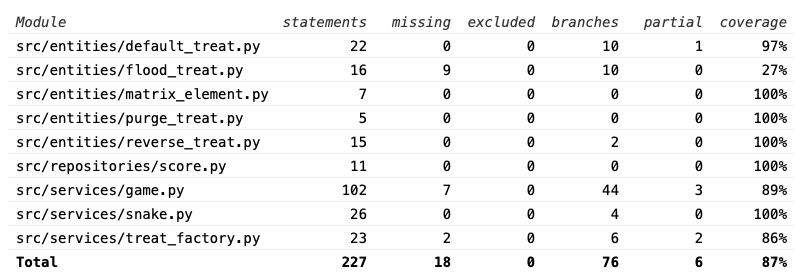
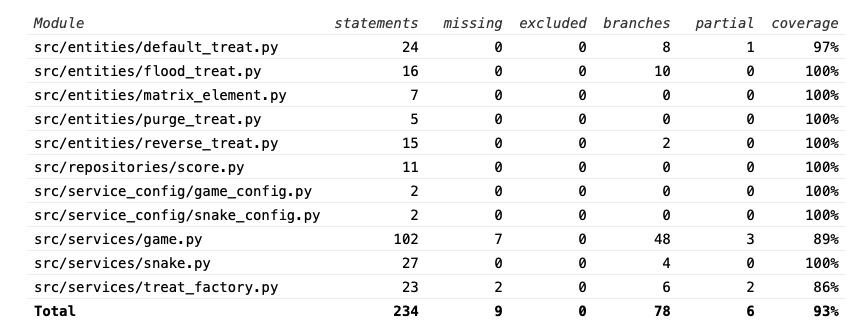
refactored defaulttreat class and added new coverage-report image

diff --git a/src/entities/default_treat.py b/src/entities/default_treat.py
@@ -1,27 +1,33 @@
 class DefaultTreat:
     """instances of this class are consumable treats in the game,
-    that give one point each and either extend or contract snake
-    length by effect."""
+    that alter snake's length by effect. Effect can be negative or positive."""
     def __init__(self, effect):
         self.effect=effect
         self.type="treat"
         self.points=1
         self.tier=1
+    def new_pending_blocks(self,position, blocks):
+        """Calculate how much snakes pending blocks be"""
+        leftover=len(position)+self.effect-1
+        new_blocks=blocks+leftover
+        new_blocks = max(new_blocks,0)
+        return new_blocks
     def consume(self, snake):
         """This method changes the snake's length depending on
-        effect."""
+        effect. If effect is greater than or equal to 0, this amount will
+        be added to snake's pending blocks. Snake will then extend itself.
+        If effect is negative, snake's length will first be reduced by removing
+        elements from snake's position. Then pending blocks will be removed
+        if the effect is larger than snake's length"""
         new_position=[i[:] for i in snake.position[:]]
         blocks = snake.pending_blocks
         if self.effect>=0:
             snake.set_pending_blocks(snake.pending_blocks+self.effect)
-        if self.effect<0:
-            if len(new_position)+self.effect>0:
-                del new_position[:abs(self.effect)]
-                snake.set_position(new_position)
-            elif  len(snake.position)+self.effect<=0:
-                leftover=min(len(new_position)+self.effect, 0)
-                new_position=[new_position[len(new_position)-1][:]]
-                blocks=blocks+leftover
-                blocks = max(blocks,0)
-                snake.set_pending_blocks(blocks)
-                snake.set_position(new_position)
+            return
+        if len(new_position)+self.effect>0:
+            del new_position[:abs(self.effect)]
+            snake.set_position(new_position)
+        elif len(snake.position)+self.effect<=0:
+            snake.set_pending_blocks(self.new_pending_blocks(new_position,blocks))
+            new_position=[new_position[-1][:]]
+            snake.set_position(new_position)

diff --git a/src/services/game.py b/src/services/game.py
@@ -1,20 +1,12 @@
 from random import choice
 from entities.matrix_element import MatrixElement
 from services.treat_factory import TreatFactory
+from service_config.game_config import GAME_OVER,forbidden_directions
 treat_factory=TreatFactory()
 snake_body=MatrixElement(None,"snake",0,0,0)
 empty=MatrixElement(None,"empty",0,0,0)
 
 START=[[empty]*14 for i in range(0, 9)]
-
-GAME_OVER=[[0, 0, 0, 0, 0, 0, 0, 1, 1, 1, 0, 0, 0, 0],
-        [0, 0, 0, 1, 0, 1, 0, 1, 0, 1, 0, 1, 0, 1],
-        [0, 0, 0, 0, 1, 0, 0, 1, 1, 1, 0, 1, 0, 1],
-        [0, 0, 0, 0, 1, 0, 0, 2, 2, 2, 0, 1, 1, 1],
-        [0, 0, 0, 0, 0, 0, 0, 2, 0, 0, 0, 0, 0, 0],
-        [0, 2, 2, 0, 0, 2, 0, 2, 2, 2, 0, 2, 2, 0],
-        [0, 2, 0, 2, 0, 2, 0, 2, 0, 0, 0, 2, 0, 2],
-        [0, 2, 2, 0, 0, 2, 0, 2, 2, 2, 0, 2, 2, 0]]
 
 class Game:
     """Game is class responsible for integrating entities, and producing the image
@@ -47,7 +39,7 @@ class Game:
                 self.coordinates.append([i, j])
 
     def start(self, name,difficulty):
-        """this method resets game attributes."""
+        """this method resets game attributes. and returns initial image for gui"""
         self.points=0
         self.difficulty=difficulty
         self.game_matrix=[x[:] for x in START]
@@ -57,7 +49,6 @@ class Game:
             self.game_matrix[snake_block[0]][snake_block[1]]=snake_body
         self.direction=1
         self.game_over=False
-        #Return game_matrix for initial image before game starts.
         return self.game_matrix
 
     def set_game_matrix(self, matrix):
@@ -65,7 +56,9 @@ class Game:
         self.game_matrix=matrix
 
     def change_direction(self, direction):
-        self.direction=direction
+        """Sets self.direction if snake does not turn on itself."""
+        if forbidden_directions[self.direction]!=direction:
+            self.direction=direction
 
     def out_out_bounds(self, head):
         """This method tests whether the snake has hit wall"""

diff --git a/src/tests/flood_treat_test.py b/src/tests/flood_treat_test.py
@@ -1,7 +1,49 @@
 from entities.flood_treat import FloodTreat
 import unittest
+from unittest.mock import MagicMock
+
 class TestFloodTreat(unittest.TestCase):
-    def testUp(self):
-        pass
-    def test_consume(self):
-        pass
+    def setUp(self):
+        self.returned=None
+        def return_args(arg):
+            self.returned=arg
+        self.game=MagicMock()
+        empty=MagicMock()
+        empty.type="empty"
+        game_matrix=[[empty]*14 for i in range(0, 9)]
+        self.game.game_matrix=game_matrix
+        self.game.set_game_matrix=return_args
+        
+    def test_every_second_is_treat(self):
+        treat = FloodTreat()
+        treat.consume(self.game)
+        even_rows=self.returned[::2]
+        odd_rows=self.returned[1::2]
+        for row in odd_rows:
+            for element in row[::2]:
+                self.assertEqual(element.type, "treat")
+                self.assertEqual(element.action.effect, -2)
+        for row in even_rows:
+            for element in row[1::2]:
+                self.assertEqual(element.type, "treat")
+                self.assertEqual(element.action.effect, -2)
+
+    def test_every_second_is_not_changed(self):
+        treat = FloodTreat()
+        treat.consume(self.game)
+        even_rows=self.returned[::2]
+        odd_rows=self.returned[1::2]
+        for row in odd_rows:
+            for element in row[1::2]:
+                self.assertEqual(element.type, "empty")
+        for row in even_rows:
+            for element in row[::2]:
+                self.assertEqual(element.type, "empty")
+
+    def test_snake_not_replaced(self):
+        snake=MagicMock()
+        snake.type="snake"
+        self.game.game_matrix[0][1]=snake
+        treat = FloodTreat()
+        treat.consume(self.game)
+        self.assertEqual(self.returned[0][1].type,"snake")

diff --git a/src/ui/gui.py b/src/ui/gui.py
@@ -43,21 +43,23 @@ class View:
                 if event.type == pygame.QUIT:
                     self.game_run=False
                 if event.type == pygame.KEYDOWN:
-                    started=True
                     if event.key == pygame.K_LEFT:
                         self.game.change_direction(3)
                     if event.key == pygame.K_RIGHT:
                         self.game.change_direction(1)
+                        started=True
                     if event.key == pygame.K_UP:
                         self.game.change_direction(0)
+                        started=True
                     if event.key == pygame.K_DOWN:
                         self.game.change_direction(2)
+                        started=True
 
             self.screen.fill((0, 0, 0))
             pygame.draw.rect(self.screen, (0, 255, 255), pygame.Rect(0, 0, 750, 50))
             image=starting_image
             if started:
-                image = self.game.advance()   
+                image = self.game.advance() 
             if image==GAME_OVER:
                 self.game_run=False
                 self.start_ending_screen(self.game.points)
@@ -77,7 +79,9 @@ class View:
                     effect = main_font.render(text, False, (255, 255, 255))
                     pygame.draw.rect(self.screen, (color), pygame.Rect(j*50,50+50*i, 50, 50))
                     self.screen.blit(effect, (j*50+15,50+50*i+5))
-                    
+            if not started:
+                start_prompt = main_font.render("Press right arrowkey to start", False, (255, 255, 255)) 
+                self.screen.blit(start_prompt, (200,50))
             points = main_font.render("points: "+str(self.game.points), False, (0, 0,0))
             self.screen.blit(points, (10,10))
             pygame.display.flip()

diff --git a/src/tests/default_treat_test.py b/src/tests/default_treat_test.py
@@ -32,10 +32,24 @@ class TestDefaultTreat(unittest.TestCase):
         self.snake.set_pending_blocks.assert_called_with(0)
         self.snake.set_position.assert_called_with([[1, 3]])
     
-    def test_treat_only_reduces_snake_length(self):
+    def test_pending_blocks_does_not_change(self):
         self.snake.position=[[1, 2], [1, 3], [1, 4], [1, 5]]
         self.snake.pending_blocks=5
         treat = MatrixElement(DefaultTreat(-2),"treat",1,1,-2)
         treat.action.consume(self.snake)
-        self.assertEqual(self.snake.pending_blocks, 5)
+        self.snake.set_pending_blocks.assert_not_called()
         self.snake.set_position.assert_called_with([[1, 4], [1, 5]])
+
+    def test_pending_blocks_decrease_correctly(self):
+        self.snake.position=[[1, 2], [1, 3], [1, 4]]
+        treat = MatrixElement(DefaultTreat(-5),"treat",1,1,-2)
+        self.snake.pending_blocks=16
+        treat.action.consume(self.snake)
+        self.snake.set_pending_blocks.assert_called_with(13)
+
+    def test_pending_blocks_increase_correctly(self):
+        self.snake.position=[[1, 2]]
+        treat = MatrixElement(DefaultTreat(2),"treat",1,1,2)
+        self.snake.pending_blocks=4
+        treat.action.consume(self.snake)
+        self.snake.set_pending_blocks.assert_called_with(6)

diff --git a/src/tests/integration_test.py b/src/tests/integration_test.py
@@ -36,9 +36,8 @@ class TestIntegration(unittest.TestCase):
             snake_head=self.snake.position[len(self.snake.position)-1]
             self.game.game_matrix[snake_head[0]][snake_head[1]+1]=candy
             self.game.advance()
-        self.game.game_matrix[snake_head[0]][snake_head[1]+1]=empty
-        self.game.advance()
-        self.assertEqual(len(self.snake.position), 9)
+        self.assertEqual(len(self.snake.position), 8)
+        self.assertEqual(self.snake.pending_blocks,1)
         self.assertEqual(self.game.points, 5)
         self.snake.set_position([[1, 85]])
         self.game.advance()
@@ -71,10 +70,3 @@ class TestIntegration(unittest.TestCase):
         self.assertEqual(str(list(reversed([[2, 2], [3,2], [3, 4], [3, 5],[3, 6]]))),
         str(self.snake.position))
         self.assertEqual(self.game.direction, 0)
-
-
-
-
-
-
-

diff --git a/src/services/snake.py b/src/services/snake.py
@@ -1,5 +1,4 @@
-START=[[3, 1], [3, 2], [3, 3], [3, 4]]
-
+from service_config.snake_config import START,directions
 class Snake:
     """instance of this class is the snake controlled by the player."""
     def __init__(self, position=START):
@@ -15,12 +14,7 @@ class Snake:
         self.pending_blocks=0
         self.start_position=position[:]
         self.position=position[:]
-        self.directions={
-            0: [-1, 0],
-            1: [0, 1],
-            2: [1, 0],
-            3: [0, -1]
-        }
+        self.directions=directions
     def reset(self):
         """This method resets the snake's position to the given position
         when the class instance was created."""

diff --git a/src/service_config/game_config.py b/src/service_config/game_config.py
@@ -1,0 +1,14 @@
+GAME_OVER=[[0, 0, 0, 0, 0, 0, 0, 1, 1, 1, 0, 0, 0, 0],
+        [0, 0, 0, 1, 0, 1, 0, 1, 0, 1, 0, 1, 0, 1],
+        [0, 0, 0, 0, 1, 0, 0, 1, 1, 1, 0, 1, 0, 1],
+        [0, 0, 0, 0, 1, 0, 0, 2, 2, 2, 0, 1, 1, 1],
+        [0, 0, 0, 0, 0, 0, 0, 2, 0, 0, 0, 0, 0, 0],
+        [0, 2, 2, 0, 0, 2, 0, 2, 2, 2, 0, 2, 2, 0],
+        [0, 2, 0, 2, 0, 2, 0, 2, 0, 0, 0, 2, 0, 2],
+        [0, 2, 2, 0, 0, 2, 0, 2, 2, 2, 0, 2, 2, 0]]
+forbidden_directions={
+    0:2,
+    1:3,
+    2:0,
+    3:1
+}

diff --git a/src/tests/game_test.py b/src/tests/game_test.py
@@ -26,4 +26,10 @@ class TestGame(unittest.TestCase):
         expected_snake_coordinates=[[1, 5], [1, 6], [1, 7]]
         for element in expected_snake_coordinates:
             self.assertEqual(game.game_matrix[element[0]][element[1]].type, "snake")
+    def test_snake_does_not_turn_on_itself(self):
+        snake=MagicMock()
+        game = Game(snake, self.db)
+        game.change_direction(1)
+        game.change_direction(3)
+        self.assertEqual(game.direction,1)
 

diff --git a/src/service_config/snake_config.py b/src/service_config/snake_config.py
@@ -1,0 +1,7 @@
+START=[[3, 1], [3, 2], [3, 3], [3, 4]]
+directions={
+0: [-1, 0],
+1: [0, 1],
+2: [1, 0],
+3: [0, -1]
+}
